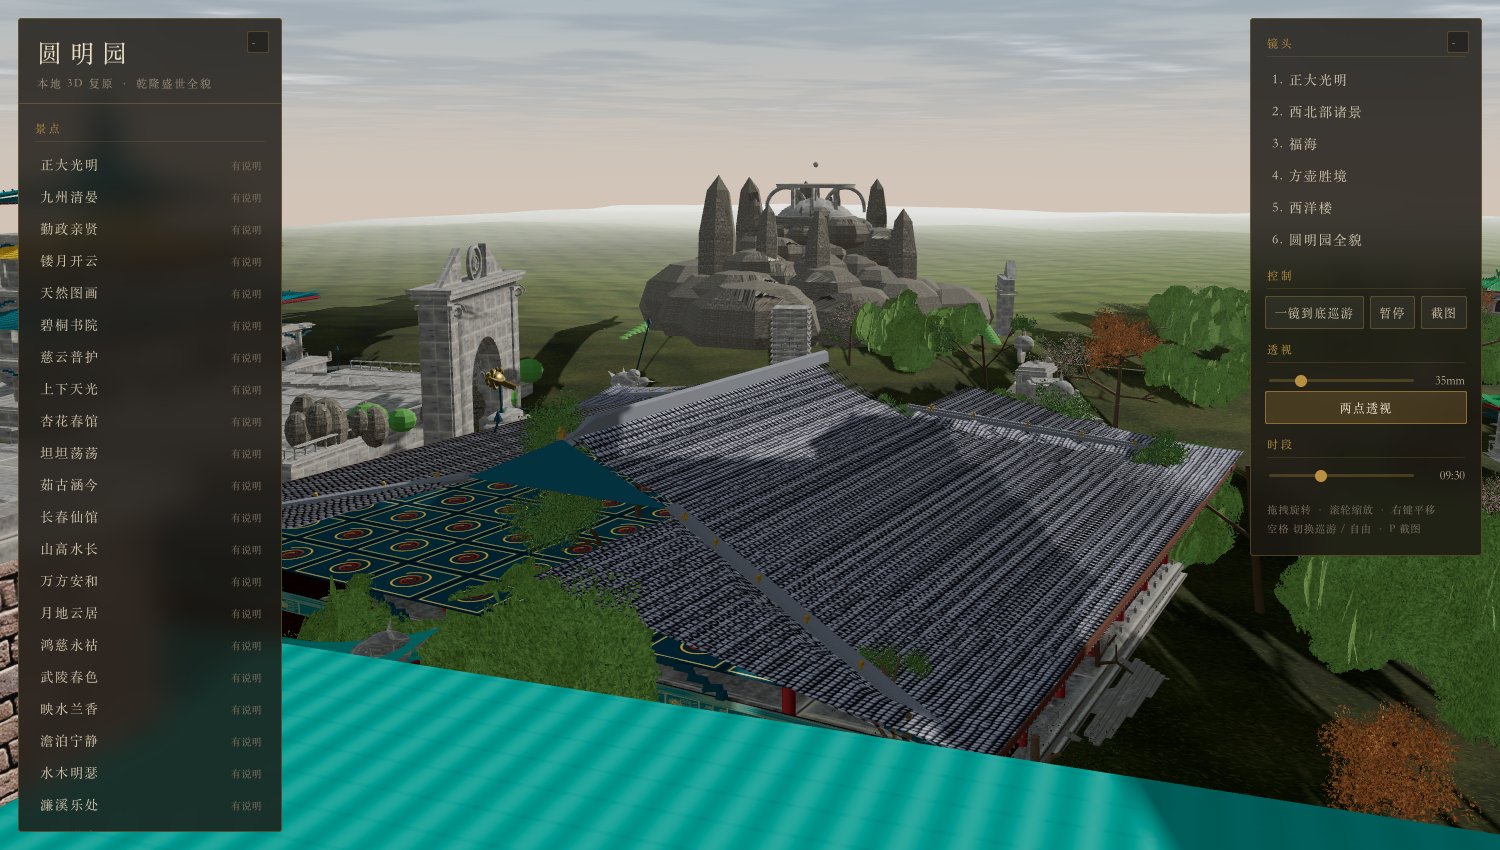
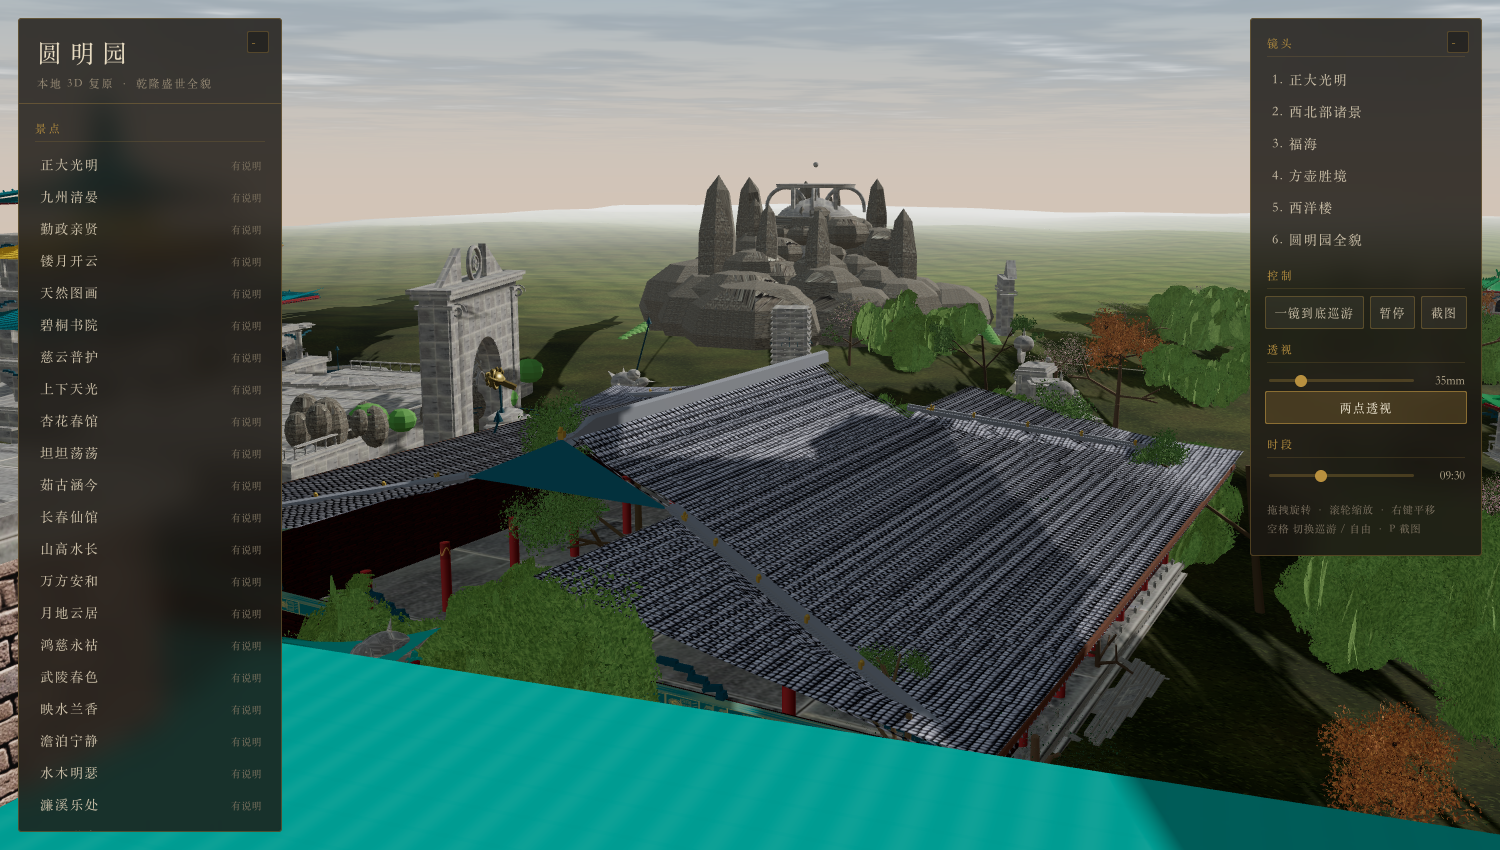
fix(藻井): 藻井只从室内可见；琉璃瓦面法线强度压低
## 花地毯的真相
大水法旁那块"地毯"追了三轮，最后用**射线 + 材质染色**定位：
它是一栋现状建筑（OSM 轮廓，891m²）缺失屋面处露出的**藻井天花**。
藻井材质是 DoubleSide，从上方也照画不误，于是整片花纹天花摊在地上。
改为 FrontSide——藻井的正面朝下，本就只该从室内看得见。

## 琉璃瓦
琉璃是光滑釉面，不该有瓦垄凹凸。normalScale 0.45 → 0.1，
屋面不再像一张"花砖"。

## 收尾
- 地面贴图改程序化无缝版（大块色斑与草叶笔触都环绕绘制）
- 西洋楼石材分两档：素面石铺大面，番花浮雕只上柱身栏板
- 尺度参照物层（人 252 / 马 9 / 轿 12 / 执事 16 / 船 16，4 draw call）
- 树冠密度恢复（卡片改小片后四片合计要接近原来两张大卡）

diff --git a/src/scene/buildings/materials.js b/src/scene/buildings/materials.js
@@ -38,10 +38,13 @@ export function roofMaterial(glazed = false, color = '#2f7a4a') {
       return new THREE.MeshStandardMaterial({
         color: new THREE.Color(color),
         normalMap,
-        normalScale: new THREE.Vector2(0.45, 0.45),
-        roughness: 0.3,
+        // 琉璃瓦面是**光滑釉面**，不该有瓦垄的凹凸。
+        // 法线强度给高了，屋面会变成一张"花砖"——西洋楼海晏堂的孔雀绿琉璃顶
+        // 远看整片都是方格纹。
+        normalScale: new THREE.Vector2(0.1, 0.1),
+        roughness: 0.26,
         metalness: 0.06,
-        envMapIntensity: 1.25,
+        envMapIntensity: 1.2,
       });
     }
     return new THREE.MeshStandardMaterial({
@@ -187,7 +190,14 @@ export function ceilingMaterial() {
   return make('ceiling', () => {
     const map = caoJing();
     map.repeat.set(2, 2);
-    return new THREE.MeshStandardMaterial({ map, roughness: 0.7, side: THREE.DoubleSide });
+    // 藻井是**朝下的**天花，只该从室内看得见。
+    // 之前用 DoubleSide，屋面一旦有缺口，从高处俯视就露出一整片花纹天花，
+    // 像在地上铺了一张地毯。
+    return new THREE.MeshStandardMaterial({
+      map,
+      roughness: 0.7,
+      side: THREE.FrontSide,
+    });
   });
 }
 
